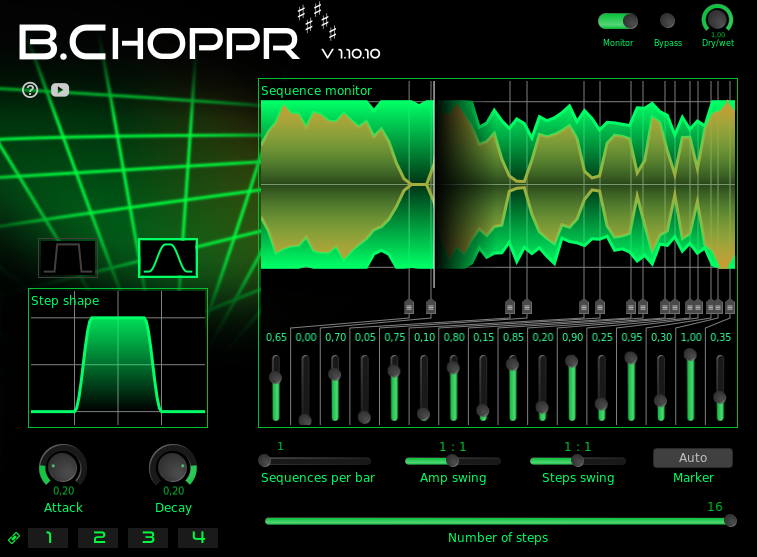
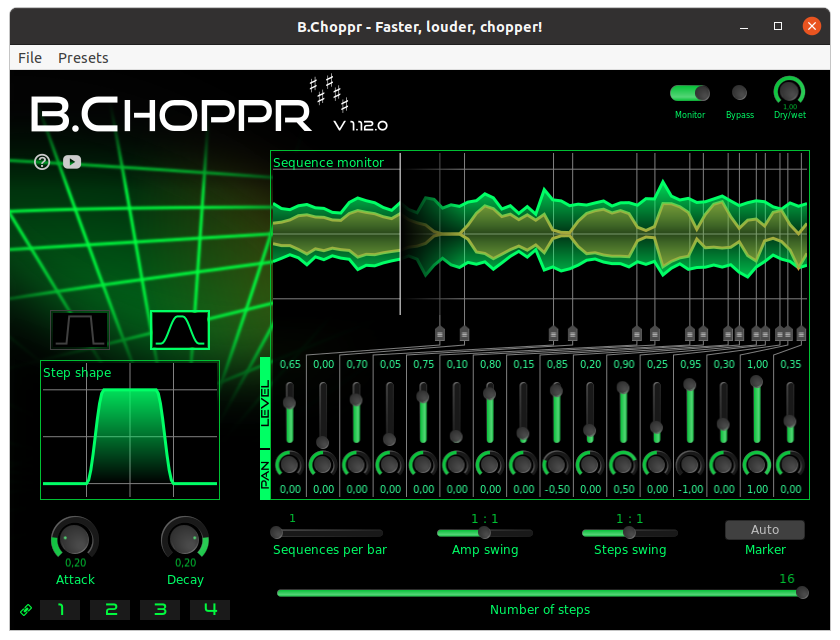
Version 1.12.0

diff --git a/README.md b/README.md
@@ -153,7 +153,8 @@ But do not change or delete any definition symbol!
 
 ## TODO
 
-* Add a crazy panning preset
+* Moooaaaaaarrrrrrr presets
+* Enter position / step length via keyboard
 
 
 ## Acknowledgments
